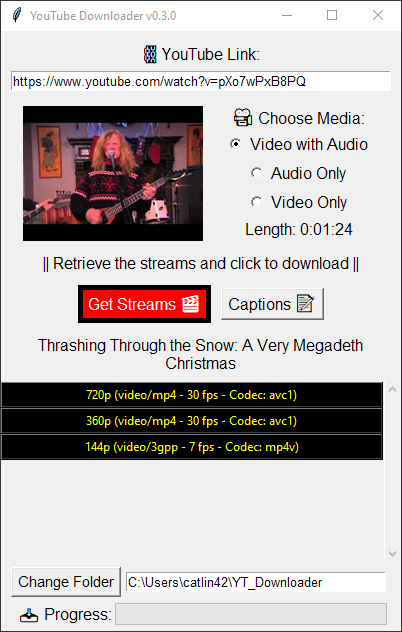
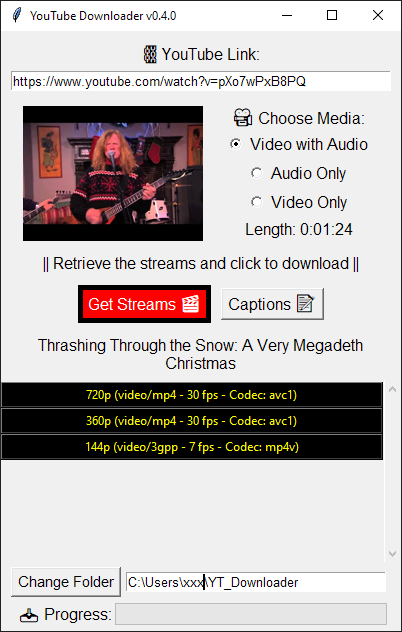
v0.4.0

Changed region(s): [[0.0597, 0.0, 0.4478, 0.0301], [0.4478, 0.9019, 0.806, 0.932], [0.9254, 0.0, 0.9552, 0.0301]]

diff --git a/ytDL.py b/ytDL.py
@@ -10,7 +10,7 @@ from pytubefix.exceptions import PytubeFixError, VideoUnavailable, AgeRestricted
 from pytubefix.helpers import safe_filename
 
 # version number
-version = "0.3.0"
+version = "0.4.0"
 # Set the main_path to a subfolder within the user's home directory
 main_path = os.path.join(os.path.expanduser('~'), 'YT_Downloader')
 # Dictionary to map media choices to sub directories
